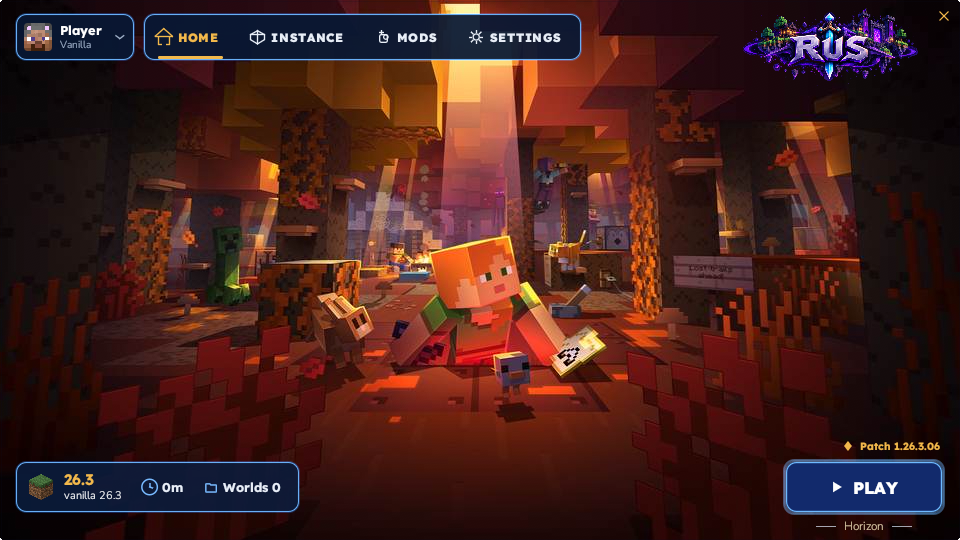
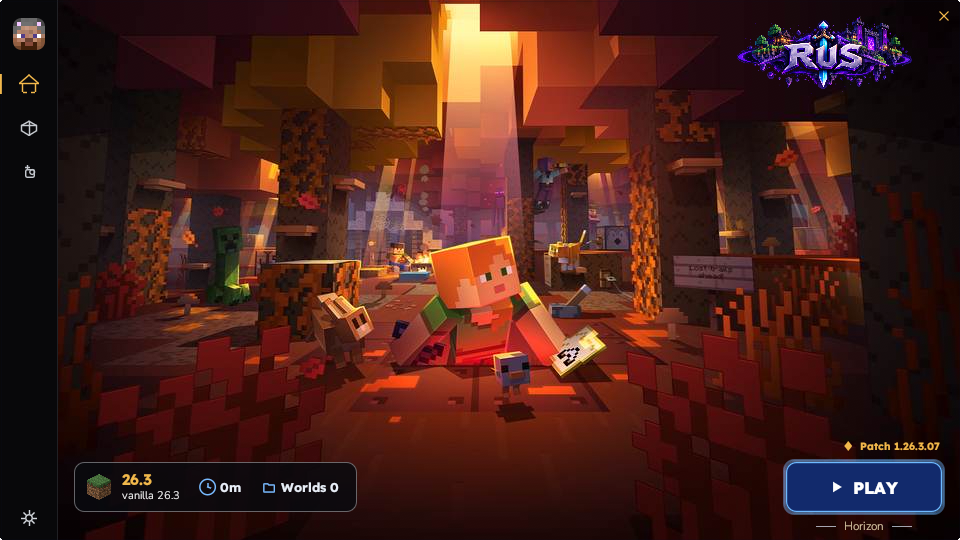
Make Home a single art page with a black rail.
The official wallpaper fills the window. Profile sits at the top of the left rail and Settings sits at the bottom.

diff --git a/src/tabs/home.rs b/src/tabs/home.rs
@@ -20,9 +20,74 @@ impl super::super::Desktop {
         }
     }
 
+    /// Narrow black rail. Profile is the start, Settings is the end.
+    pub(crate) fn paint_home_rail(&mut self, ui: &mut egui::Ui, full: egui::Rect) {
+        let rail = egui::Rect::from_min_size(full.left_top(), egui::vec2(58.0, full.height()));
+        ui.painter().rect_filled(rail, 0.0, egui::Color32::from_rgb(8, 8, 10));
+        ui.painter().vline(
+            rail.right() - 0.5,
+            rail.top()..=rail.bottom(),
+            egui::Stroke::new(1.0, egui::Color32::from_rgb(32, 32, 36)),
+        );
+        let name = if self.username.is_empty() { "Player".to_string() } else { self.username.clone() };
+        let head_s = 32.0;
+        let head = egui::Rect::from_center_size(egui::pos2(rail.center().x, 18.0 + head_s * 0.5), egui::vec2(head_s, head_s));
+        let profile = ui.interact(head.expand(4.0), egui::Id::new("rail-profile"), Sense::click());
+        if let Some(face) = &self.avatar {
+            ui.painter().add(
+                egui::epaint::RectShape::filled(head, 8.0, egui::Color32::WHITE)
+                    .with_texture(face.id(), egui::Rect::from_min_max(egui::Pos2::ZERO, egui::pos2(1.0, 1.0))),
+            );
+        } else {
+            ui.painter().rect_filled(head, 8.0, egui::Color32::from_rgb(0x1A, 0x14, 0x10));
+        }
+        if profile.hovered() {
+            ui.ctx().set_cursor_icon(CursorIcon::PointingHand);
+        }
+        if profile.clicked() {
+            self.tab = Tab::Settings;
+        }
+        profile.on_hover_text(name);
+
+        let mut y = 84.0;
+        for tab in [Tab::Home, Tab::Versions, Tab::Mods] {
+            let rect = egui::Rect::from_center_size(egui::pos2(rail.center().x, y), egui::vec2(42.0, 36.0));
+            let hit = ui.interact(rect, egui::Id::new("rail-tab").with(tab.label()), Sense::click());
+            let on = self.tab == tab;
+            let color = if on { GOLD } else if hit.hovered() { egui::Color32::WHITE } else { egui::Color32::from_rgb(196, 200, 206) };
+            if on {
+                ui.painter().rect_filled(
+                    egui::Rect::from_min_size(egui::pos2(rail.left(), rect.center().y - 10.0), egui::vec2(2.0, 20.0)),
+                    1.0,
+                    GOLD,
+                );
+            }
+            paint_tab_glyph(ui.painter(), tab, rect.center(), 16.0, color);
+            if hit.hovered() {
+                ui.ctx().set_cursor_icon(CursorIcon::PointingHand);
+            }
+            if hit.clicked() {
+                self.tab = tab;
+            }
+            hit.on_hover_text(tab.label());
+            y += 44.0;
+        }
+
+        let gear = egui::Rect::from_center_size(egui::pos2(rail.center().x, full.bottom() - 22.0), egui::vec2(36.0, 36.0));
+        let settings = ui.interact(gear, egui::Id::new("rail-settings"), Sense::click());
+        let gear_ink = if settings.hovered() { GOLD } else { egui::Color32::from_rgb(210, 214, 220) };
+        paint_tab_glyph(ui.painter(), Tab::Settings, gear.center(), 16.0, gear_ink);
+        if settings.hovered() {
+            ui.ctx().set_cursor_icon(CursorIcon::PointingHand);
+        }
+        if settings.clicked() {
+            self.tab = Tab::Settings;
+        }
+        settings.on_hover_text("Settings");
+    }
+
     pub(crate) fn paint_chrome(&mut self, ui: &mut egui::Ui, full: egui::Rect) {
         let horizon_on = self.engine == "horizon";
-        self.paint_recent_servers(ui, full);
         self.paint_instance_card(ui, full);
 
         let play_h = 50.0;
@@ -83,7 +148,7 @@ impl super::super::Desktop {
         let h = 78.0;
         let w = h * aspect;
         let rect = egui::Rect::from_min_size(
-            egui::pos2(full.right() - 42.0 - w, full.top() + 8.0),
+            egui::pos2(full.right() - 48.0 - w, full.top() + 16.0),
             egui::vec2(w, h),
         );
         ui.painter().image(
@@ -113,8 +178,9 @@ impl super::super::Desktop {
         let h = 50.0;
         let icon = 26.0;
         let w = 12.0 + icon + 10.0 + text_w + 16.0 + 18.0 + 8.0 + time_w + 16.0 + 18.0 + 8.0 + tail_w + 14.0;
-        let card = egui::Rect::from_min_size(egui::pos2(16.0, full.bottom() - 28.0 - h), egui::vec2(w, h));
-        paint_glass_chip(ui.painter(), card, 10.0, 214);
+        let card = egui::Rect::from_min_size(egui::pos2(74.0, full.bottom() - 28.0 - h), egui::vec2(w, h));
+        ui.painter().rect_filled(card, 10.0, egui::Color32::from_rgba_unmultiplied(8, 10, 14, 214));
+        ui.painter().rect_stroke(card, 10.0, egui::Stroke::new(1.0, egui::Color32::from_white_alpha(28)), egui::StrokeKind::Inside);
         let icon_rect = egui::Rect::from_center_size(egui::pos2(card.left() + 12.0 + icon * 0.5, card.center().y), egui::vec2(icon, icon));
         if let Some(tex) = self.loader_icon() {
             ui.painter().image(tex.id(), icon_rect, egui::Rect::from_min_max(egui::Pos2::ZERO, egui::pos2(1.0, 1.0)), egui::Color32::WHITE);

diff --git a/src/desktop.rs b/src/desktop.rs
@@ -1081,8 +1081,12 @@ impl Desktop {
                 ui.ctx().send_viewport_cmd(ViewportCommand::StartDrag);
             }
         }
-        let player = self.paint_player_bar(ui, full);
-        self.paint_shared_tabs(ui, full, player.right() + 10.0);
+        if self.tab == Tab::Home {
+            self.paint_home_rail(ui, full);
+        } else {
+            let player = self.paint_player_bar(ui, full);
+            self.paint_shared_tabs(ui, full, player.right() + 10.0);
+        }
         self.paint_title_logo(ui, full);
         self.paint_exit(ui, full);
         let now = ui.input(|i| i.time);
@@ -1133,8 +1137,8 @@ impl Desktop {
         let paper = self.paper_for(&self.selected);
         if let Some(tex) = self.papers.get(paper.title) {
             ui.painter().rect_filled(full, 0.0, BG);
-            let fitted = contain_rect(tex.size_vec2(), full);
-            ui.painter().image(tex.id(), fitted, egui::Rect::from_min_max(egui::Pos2::ZERO, egui::pos2(1.0, 1.0)), egui::Color32::WHITE);
+            // One official image, drawn at the window size. No wash, no crop.
+            ui.painter().image(tex.id(), full, egui::Rect::from_min_max(egui::Pos2::ZERO, egui::pos2(1.0, 1.0)), egui::Color32::WHITE);
         } else {
             ui.painter().rect_filled(full, 0.0, BG);
             ui.painter().text(

diff --git a/src/product.rs b/src/product.rs
@@ -3,7 +3,7 @@
 //! The line starts at `1.26.3.00`. An update changes the last two digits
 //! until the year or month component is moved on purpose.
 
-pub const VERSION: &str = "1.26.3.06";
+pub const VERSION: &str = "1.26.3.07";
 
 pub fn parse(tag: &str) -> Option<[u32; 4]> {
     let tag = tag.trim().trim_start_matches('v');
@@ -29,7 +29,7 @@ mod tests {
     #[test]
     fn starting_version_parses() {
         assert_eq!(parse("1.26.3.00"), Some([1, 26, 3, 0]));
-        assert_eq!(parse(VERSION), Some([1, 26, 3, 6]));
+        assert_eq!(parse(VERSION), Some([1, 26, 3, 7]));
         assert_eq!(parse("v1.26.3.00"), Some([1, 26, 3, 0]));
     }
 
@@ -44,7 +44,7 @@ mod tests {
         let now = parse("1.26.3.00").unwrap();
         let next = parse("1.26.3.01").unwrap();
         let shipped = parse("1.26.3.04").unwrap();
-        let art = parse("1.26.3.06").unwrap();
+        let art = parse("1.26.3.07").unwrap();
         assert_eq!(cmp(now, next), std::cmp::Ordering::Less);
         assert_eq!(cmp(next, shipped), std::cmp::Ordering::Less);
         assert_eq!(cmp(shipped, art), std::cmp::Ordering::Less);

diff --git a/README.md b/README.md
@@ -127,7 +127,7 @@ The release is Rus Gate. Download it once.
 
 | Platform | File |
 | --- | --- |
-| Windows | [rus-gate.exe](https://github.com/obsifox/rus/releases/download/1.26.3.06/rus-gate.exe) |
+| Windows | [rus-gate.exe](https://github.com/obsifox/rus/releases/download/1.26.3.07/rus-gate.exe) |
 
 <p align="center">
   <img src="docs/gate.png" alt="Rus Gate, showing the install folder on the blue poster" width="280">
@@ -138,7 +138,7 @@ Run `rus-gate.exe`. The window is vertical, with no title bar. First run shows t
 
 `Rus Launcher.exe` does not show the install step. With a connection it reads **tags**, not the release list, downloads `rus_{version}.exe` from that tag's release, and starts it. With no connection it starts the installed build.
 
-Versions are `{version}.{year}.{month}.{patch}`, starting at `1.26.3.00`. An update changes the last two digits. Current tag: `1.26.3.06`.
+Versions are `{version}.{year}.{month}.{patch}`, starting at `1.26.3.00`. An update changes the last two digits. Current tag: `1.26.3.07`.
 
 Linux builds from source with `cargo build --release`. The published release is the Windows gate.
 
